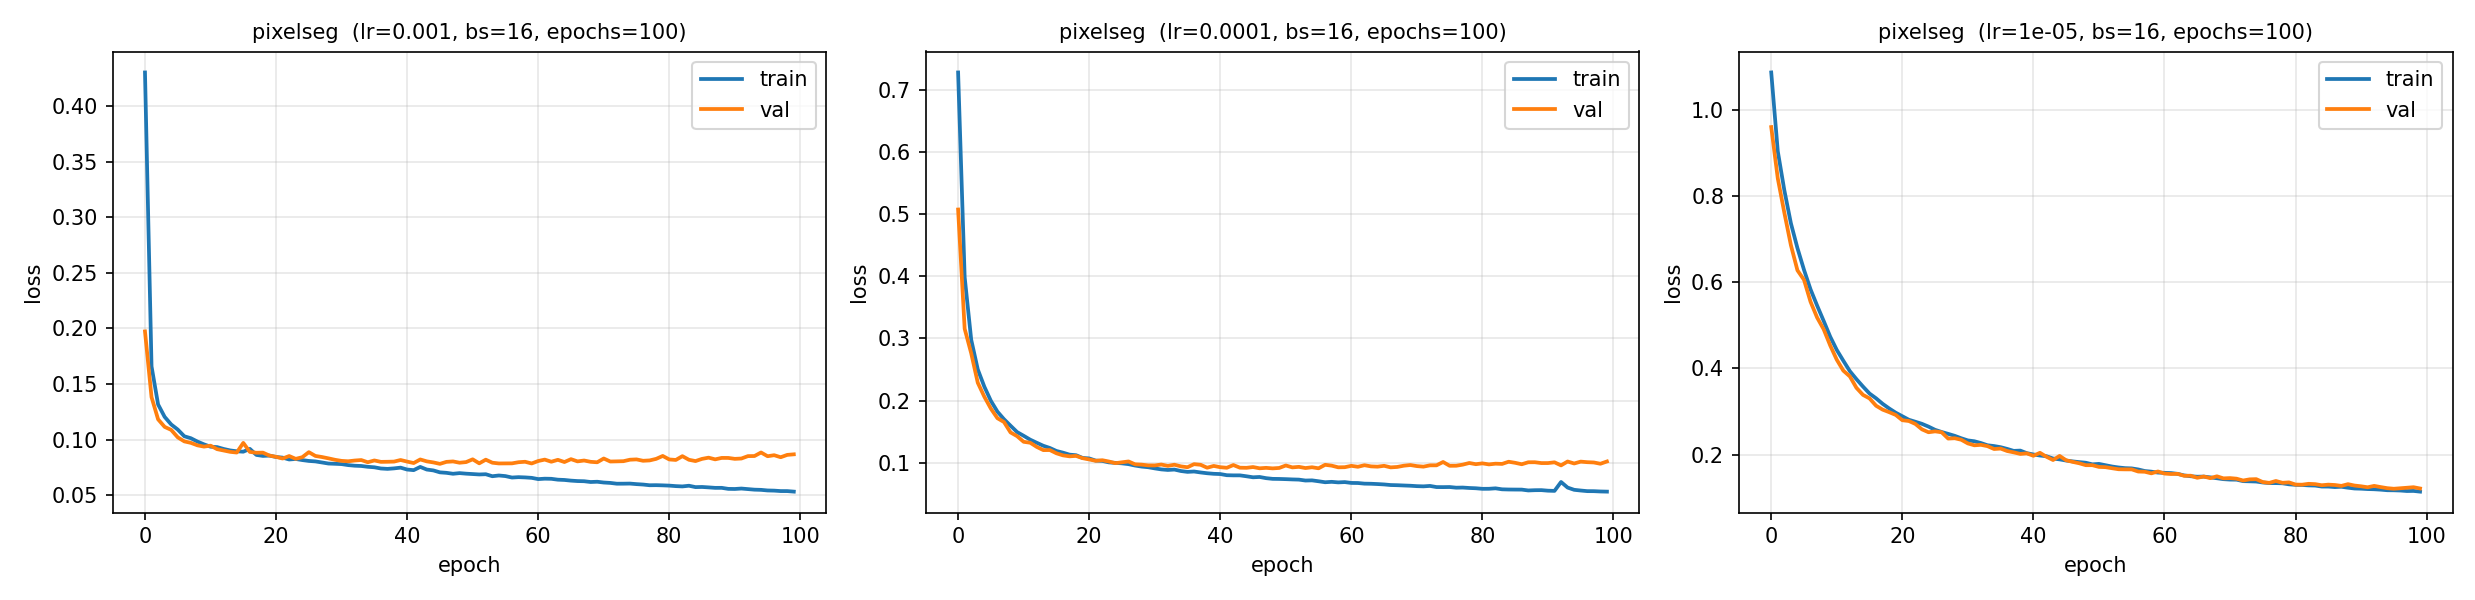
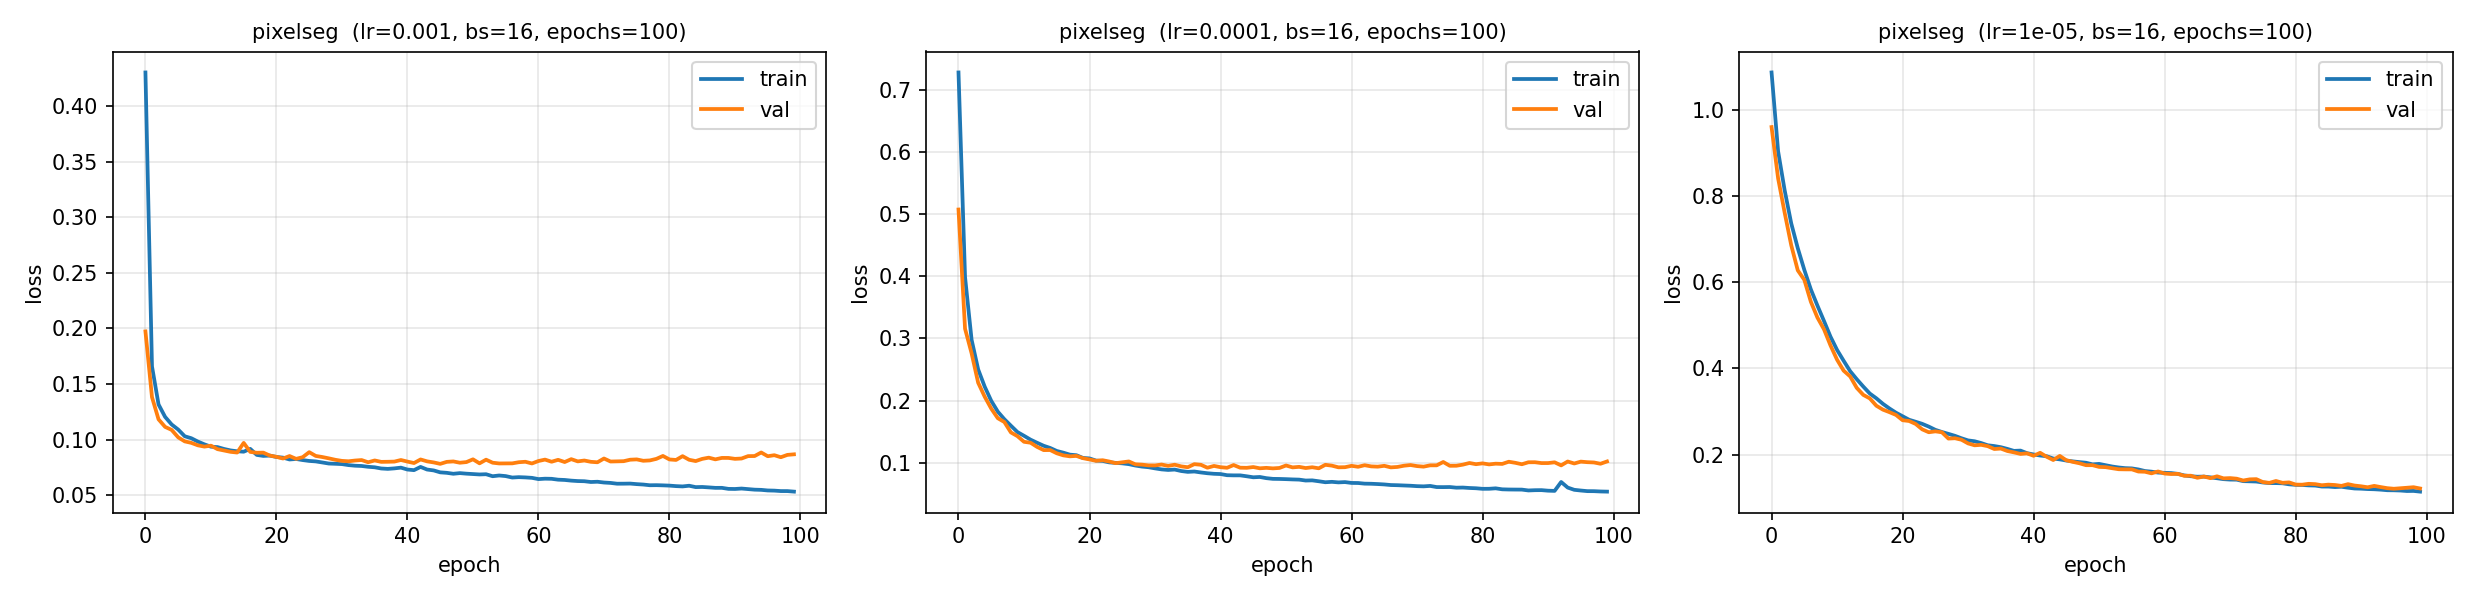
Run plots

diff --git a/plot_inference.py b/plot_inference.py
@@ -1,0 +1,98 @@
+"""Plot vote-IoU-vs-N for a PixelSeg run, with greedy + sample reference lines.
+
+Reads:
+  runs/<tag>/results_pixelseg.json           (single-sample, contributes N=16 passes)
+  runs/<tag>/results_pixelseg_greedy.json    (greedy decoding)
+  runs/<tag>/results_pixelseg_vote_N<N>.json (vote with N samples)
+
+Optionally overlays the U-Net argmax baseline from runs/det/results_det.json.
+"""
+
+import argparse
+import json
+import re
+from pathlib import Path
+
+import matplotlib.pyplot as plt
+
+
+def load(path):
+    if path.exists():
+        return json.loads(path.read_text())
+    return None
+
+
+def vote_points(run_dir):
+    points = []
+    pat = re.compile(r"results_pixelseg_vote_N(\d+)\.json$")
+    for p in sorted(run_dir.glob("results_pixelseg_vote_N*.json")):
+        m = pat.search(p.name)
+        if not m:
+            continue
+        n = int(m.group(1))
+        data = load(p)
+        points.append((n, data["pixel_accuracy"], data["mean_iou"]))
+    points.sort()
+    return points
+
+
+def plot_metric(ax, points, sample, greedy, baseline, metric, ylabel):
+    ns = [p[0] for p in points]
+    ys = [p[1 if metric == "pixel_accuracy" else 2] for p in points]
+    ax.plot(ns, ys, marker="o", label="vote (vs N)", linewidth=2)
+
+    if sample is not None:
+        ax.axhline(sample[metric], linestyle="--", color="tab:orange",
+                   label=f"single-sample E[IoU] = {sample[metric]:.3f}")
+    if greedy is not None:
+        ax.axhline(greedy[metric], linestyle="--", color="tab:green",
+                   label=f"greedy = {greedy[metric]:.3f}")
+    if baseline is not None:
+        ax.axhline(baseline[metric], linestyle=":", color="black",
+                   label=f"U-Net argmax = {baseline[metric]:.3f}")
+
+    ax.set_xscale("log", base=2)
+    ax.set_xticks(ns)
+    ax.set_xticklabels(ns)
+    ax.set_xlabel("vote sample count N")
+    ax.set_ylabel(ylabel)
+    ax.grid(alpha=0.3)
+    ax.legend(fontsize=9)
+
+
+def main():
+    parser = argparse.ArgumentParser()
+    parser.add_argument("--tag", default="pixelseg_lr1e-3",
+                        help="PixelSeg run dir under runs/")
+    parser.add_argument("--out", default="runs/figures/vote_vs_n.png")
+    args = parser.parse_args()
+
+    run_dir = Path("runs") / args.tag
+    points = vote_points(run_dir)
+    if not points:
+        raise SystemExit(f"No vote results found in {run_dir}")
+
+    sample = load(run_dir / "results_pixelseg.json")
+    greedy = load(run_dir / "results_pixelseg_greedy.json")
+    baseline = load(Path("runs/det/results_det.json"))
+
+    fig, axes = plt.subplots(1, 2, figsize=(12, 4.5))
+    plot_metric(axes[0], points, sample, greedy, baseline,
+                "mean_iou", "mean IoU")
+    plot_metric(axes[1], points, sample, greedy, baseline,
+                "pixel_accuracy", "pixel accuracy")
+    fig.suptitle(f"PixelSeg inference comparison ({args.tag})", fontsize=12)
+    fig.tight_layout()
+
+    out = Path(args.out)
+    out.parent.mkdir(parents=True, exist_ok=True)
+    fig.savefig(out, dpi=150)
+    print(f"Saved {out}")
+    print(f"  vote points: {[(n, round(iou, 3)) for n, _, iou in points]}")
+    if sample: print(f"  single sample: IoU={sample['mean_iou']:.3f}")
+    if greedy: print(f"  greedy:        IoU={greedy['mean_iou']:.3f}")
+    if baseline: print(f"  U-Net argmax:  IoU={baseline['mean_iou']:.3f}")
+
+
+if __name__ == "__main__":
+    main()